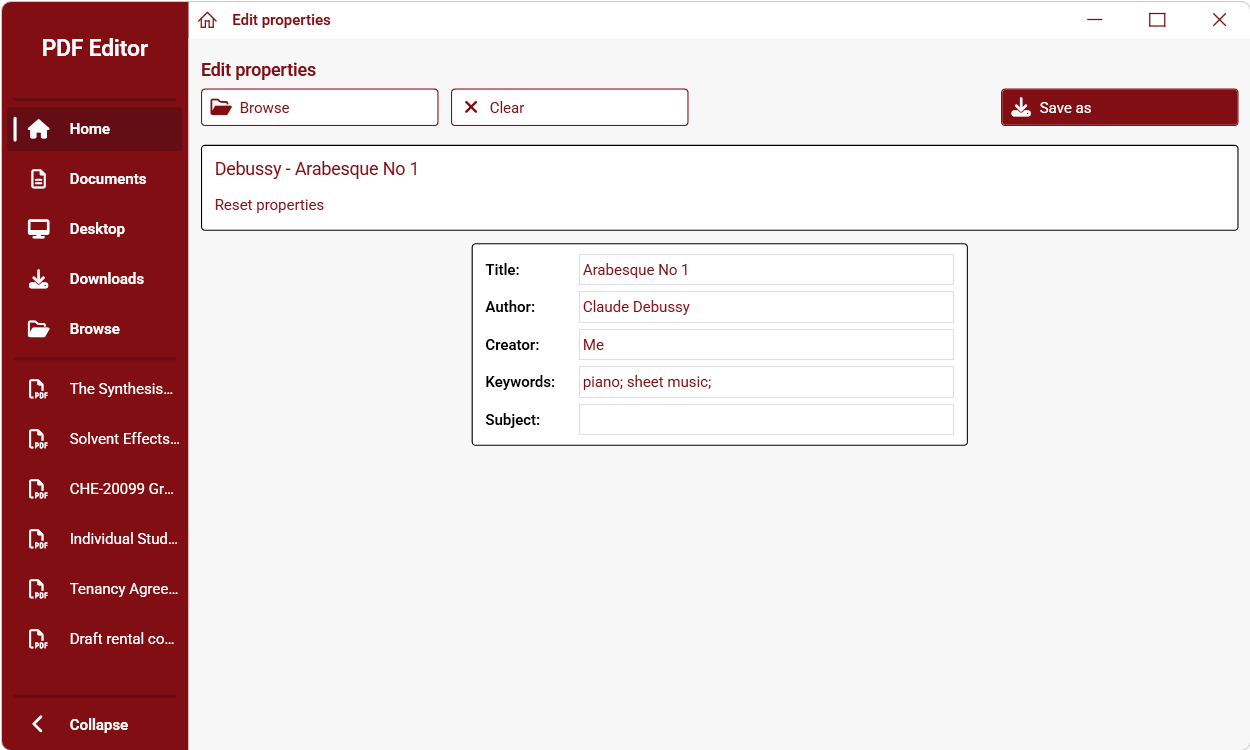
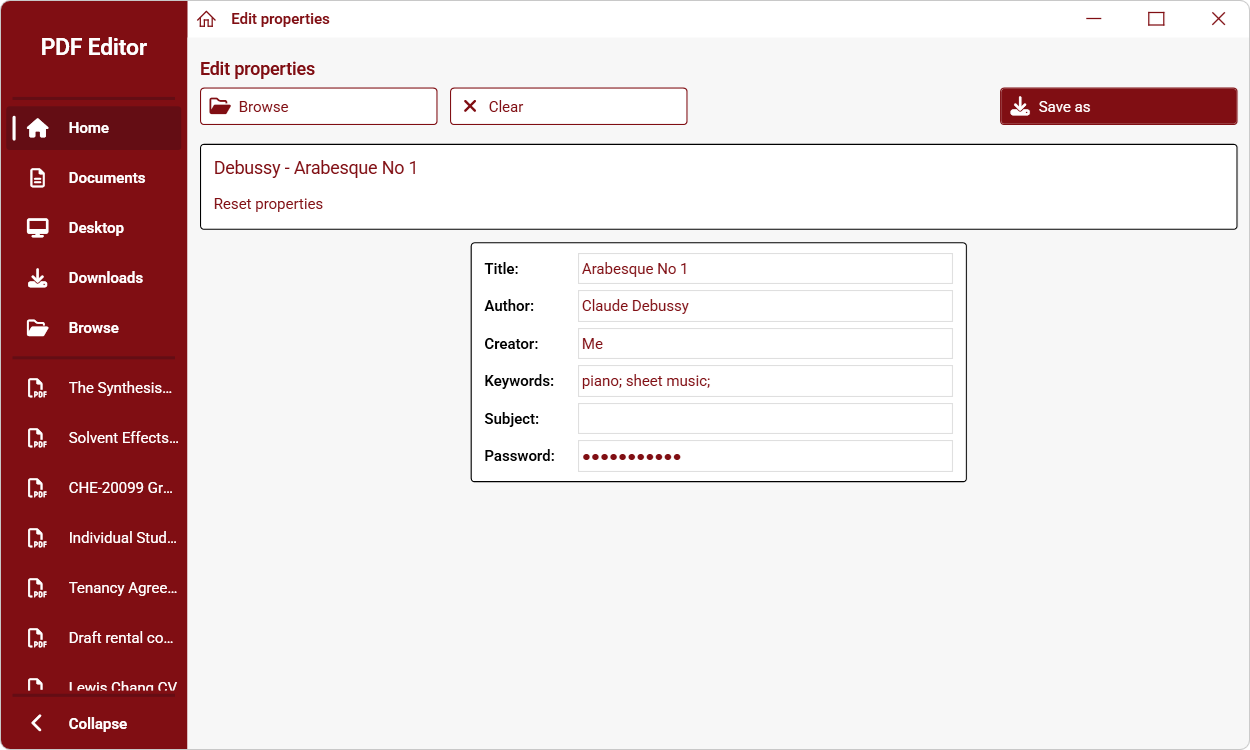
add/remove password in Edit Properties tool

diff --git a/Source/Styles/Fonts.xaml b/Source/Styles/Fonts.xaml
@@ -1,7 +1,6 @@
 <ResourceDictionary xmlns="http://schemas.microsoft.com/winfx/2006/xaml/presentation"
 					xmlns:x="http://schemas.microsoft.com/winfx/2006/xaml">
 	<Style TargetType="PasswordBox">
-		<Setter Property="Background" Value="{StaticResource ResourceKey=White}"/>
 		<Setter Property="BorderBrush" Value="{StaticResource ResourceKey=Primary}"/>
 		<Setter Property="CaretBrush" Value="{StaticResource ResourceKey=Primary}"/>
 		<Setter Property="FontFamily" Value="{StaticResource ResourceKey=DefaultFont}"/>
@@ -9,6 +8,16 @@
 		<Setter Property="Foreground" Value="{StaticResource ResourceKey=Primary}"/>
 		<Setter Property="Margin" Value="0,5,0,5"/>
 		<Setter Property="VerticalContentAlignment" Value="Center"/>
+	</Style>
+	<Style TargetType="PasswordBox" x:Key="EditPropertiesPasswordBox">
+		<Setter Property="BorderBrush" Value="{StaticResource ResourceKey=LightGrey}"/>
+		<Setter Property="CaretBrush" Value="{StaticResource ResourceKey=Primary}"/>
+		<Setter Property="FontFamily" Value="{StaticResource ResourceKey=DefaultFont}"/>
+		<Setter Property="FontSize" Value="{StaticResource ResourceKey=Body}"/>
+		<Setter Property="Foreground" Value="{StaticResource ResourceKey=Primary}"/>
+		<Setter Property="Margin" Value="5,2.5,5,2.5"/>
+		<Setter Property="VerticalContentAlignment" Value="Center"/>
+		<Setter Property="Width" Value="300"/>
 	</Style>
 	<Style TargetType="TextBlock" x:Key="DefaultTextBlock">
 		<Setter Property="FontFamily" Value="{StaticResource ResourceKey=DefaultFont}"/>
@@ -115,7 +124,6 @@
 	<Style TargetType="TextBox" x:Key="DefaultTextBox">
 		<Setter Property="AcceptsReturn" Value="False"/>
 		<Setter Property="AcceptsTab" Value="False"/>
-		<Setter Property="Background" Value="{StaticResource ResourceKey=White}"/>
 		<Setter Property="BorderBrush" Value="{StaticResource ResourceKey=Primary}"/>
 		<Setter Property="CaretBrush" Value="{StaticResource ResourceKey=Primary}"/>
 		<Setter Property="FontFamily" Value="{StaticResource ResourceKey=DefaultFont}"/>
@@ -130,7 +138,6 @@
 	</Style>
 	<Style TargetType="TextBox" x:Key="EditPropertiesTextBox" BasedOn="{StaticResource ResourceKey=DefaultTextBox}">
 		<Setter Property="BorderBrush" Value="{StaticResource ResourceKey=LightGrey}"/>
-		<Setter Property="HorizontalAlignment" Value="Left"/>
 		<Setter Property="Margin" Value="5,2.5,5,2.5"/>
 		<Setter Property="Width" Value="300"/>
 	</Style>

diff --git a/Source/Views/MainWindowView.xaml b/Source/Views/MainWindowView.xaml
@@ -360,6 +360,7 @@
 													<RowDefinition Height="30"/>
 													<RowDefinition Height="30"/>
 													<RowDefinition Height="30"/>
+													<RowDefinition Height="30"/>
 												</Grid.RowDefinitions>
 												<TextBlock Grid.Column="0" Grid.Row="0" Style="{StaticResource ResourceKey=EditPropertiesTextBlock}" Text="Title:"/>
 												<TextBox Grid.Column="1" Grid.Row="0" Style="{StaticResource ResourceKey=EditPropertiesTextBox}" Text="{Binding Path=EditTitleText, UpdateSourceTrigger=PropertyChanged}"/>
@@ -371,6 +372,8 @@
 												<TextBox Grid.Column="1" Grid.Row="3" Style="{StaticResource ResourceKey=EditPropertiesTextBox}" Text="{Binding Path=EditKeywordsText, UpdateSourceTrigger=PropertyChanged}"/>
 												<TextBlock Grid.Column="0" Grid.Row="4" Style="{StaticResource ResourceKey=EditPropertiesTextBlock}" Text="Subject:"/>
 												<TextBox Grid.Column="1" Grid.Row="4" Style="{StaticResource ResourceKey=EditPropertiesTextBox}" Text="{Binding Path=EditSubjectText, UpdateSourceTrigger=PropertyChanged}"/>
+												<TextBlock Grid.Column="0" Grid.Row="5" Style="{StaticResource ResourceKey=EditPropertiesTextBlock}" Text="Password:"/>
+												<ContentPresenter Grid.Column="1" Grid.Row="5" Content="{Binding Path=EditPasswordBox}"/>
 											</Grid>
 										</Border>
 									</Grid>
@@ -798,7 +801,7 @@
 								<TextBlock Grid.Row="0" Style="{StaticResource ResourceKey=PopupTitleTextBlock}" Text="Enter a password"/>
 								<TextBlock Grid.Row="1" Style="{StaticResource ResourceKey=PopupTextBlock}" Text="This file is password-protected. Please enter a password to open the file."/>
 								<TextBlock Grid.Row="2" Style="{StaticResource ResourceKey=NavigationTextBlock}" Text="{Binding Path=PopupPasswordFilePath, StringFormat=({0})}"/>
-								<ContentPresenter Grid.Row="3" Content="{Binding Path=PasswordBox}"/>
+								<ContentPresenter Grid.Row="3" Content="{Binding Path=PopupPasswordBox}"/>
 								<TextBlock Grid.Row="4" Style="{StaticResource ResourceKey=PopupPasswordIncorrectTextBlock}" Visibility="{Binding Path=PopupPasswordIncorrect, Converter={StaticResource ResourceKey=GeneralBoolToVisibility}}" Text="Incorrect password. Please try again."/>
 								<Grid Grid.Row="5">
 									<Grid.ColumnDefinitions>

diff --git a/Source/ViewModels/MainWindowViewModel.cs b/Source/ViewModels/MainWindowViewModel.cs
@@ -49,8 +49,10 @@ internal class MainWindowViewModel : ObservableObject
 	public ObservableCollection<IPDFFindPosition> NavigationCurrentFindResults { get; } = [];
 	public IPDFComponent PDFComponent { get; } = PDFFactory.PDFComponent;
 	public PDFView PageView { get; }
-	public PasswordBox PasswordBox { get; } = new();
+	public PasswordBox PopupPasswordBox { get; } = new();
+	public PasswordBox EditPasswordBox { get; } = new() { Style = (Style)Application.Current.FindResource("EditPropertiesPasswordBox") };
 
+	private PdfDocumentInformation? editCurrentFileProperties = null;
 	private bool editMode = false;
 	private bool popupPasswordCancelled = false;
 
@@ -231,10 +233,10 @@ internal class MainWindowViewModel : ObservableObject
 						RemoveSidepanelFile(PopupPasswordFilePath);
 					}
 				}
-				(PasswordBox.Password, PopupPasswordFilePath, popupPasswordCancelled) = (string.Empty, string.Empty, false);
+				(PopupPasswordBox.Password, PopupPasswordFilePath, popupPasswordCancelled) = (string.Empty, string.Empty, false);
 				if (passwordProtectedFiles.Count > 0)
 				{
-					(PagePasswordPopupOpen, PasswordBox.Password, PopupPasswordFilePath, popupPasswordCancelled, PopupPasswordIncorrect) = (true, string.Empty, passwordProtectedFiles[0], true, PasswordBox.Password != string.Empty);
+					(PagePasswordPopupOpen, PopupPasswordBox.Password, PopupPasswordFilePath, popupPasswordCancelled, PopupPasswordIncorrect) = (true, string.Empty, passwordProtectedFiles[0], true, PopupPasswordBox.Password != string.Empty);
 				}
 			}
 		}
@@ -634,10 +636,7 @@ internal class MainWindowViewModel : ObservableObject
 				break;
 			case 7:
 				{
-					using PdfDocument currentDocument = GetCurrentDocument();
-					PdfDocumentInformation information = currentDocument.Info;
-					(EditTitleText, EditAuthorText, EditCreatorText, EditKeywordsText, EditSubjectText) = (information.Title, information.Author, information.Creator, information.Keywords, information.Subject);
-					currentDocument.Close();
+					(EditTitleText, EditAuthorText, EditCreatorText, EditKeywordsText, EditSubjectText, EditPasswordBox.Password) = (editCurrentFileProperties!.Title, editCurrentFileProperties!.Author, editCurrentFileProperties!.Creator, editCurrentFileProperties!.Keywords, editCurrentFileProperties!.Subject, EditCurrentFile!.Password ?? string.Empty);
 				}
 				break;
 			default:
@@ -945,7 +944,7 @@ internal class MainWindowViewModel : ObservableObject
 					}
 					if (passwordProtectedFiles.Count > 0)
 					{
-						(PagePasswordPopupOpen, PasswordBox.Password, PopupPasswordFilePath, popupPasswordCancelled, PopupPasswordIncorrect) = (true, string.Empty, passwordProtectedFiles[0], true, PasswordBox.Password != string.Empty);
+						(PagePasswordPopupOpen, PopupPasswordBox.Password, PopupPasswordFilePath, popupPasswordCancelled, PopupPasswordIncorrect) = (true, string.Empty, passwordProtectedFiles[0], true, PopupPasswordBox.Password != string.Empty);
 					}
 				}, cancellationToken);
 			}
@@ -1023,7 +1022,14 @@ internal class MainWindowViewModel : ObservableObject
 											EditCurrentFile = new(file);
 											using PdfDocument currentDocument = GetCurrentDocument();
 											PdfDocumentInformation information = currentDocument.Info;
-											(EditTitleText, EditAuthorText, EditCreatorText, EditKeywordsText, EditSubjectText) = (information.Title, information.Author, information.Creator, information.Keywords, information.Subject);
+											await Application.Current.Dispatcher.BeginInvoke(() =>
+											{
+												if (!cancellationToken.IsCancellationRequested)
+												{
+													(EditTitleText, EditAuthorText, EditCreatorText, EditKeywordsText, EditSubjectText, EditPasswordBox.Password, editCurrentFileProperties) = (information.Title, information.Author, information.Creator, information.Keywords, information.Subject, EditCurrentFile.Password ?? string.Empty, (PdfDocumentInformation)information.Clone());
+												}
+											}, DispatcherPriority.Background);
+											cancellationToken.ThrowIfCancellationRequested();
 											currentDocument.Close();
 										}
 										break;
@@ -1050,7 +1056,7 @@ internal class MainWindowViewModel : ObservableObject
 							{
 								if (!cancellationToken.IsCancellationRequested)
 								{
-									(PagePasswordPopupOpen, PasswordBox.Password, PopupPasswordFilePath, popupPasswordCancelled, PopupPasswordIncorrect) = (true, string.Empty, passwordProtectedFiles[0], true, PasswordBox.Password != string.Empty);
+									(PagePasswordPopupOpen, PopupPasswordBox.Password, PopupPasswordFilePath, popupPasswordCancelled, PopupPasswordIncorrect) = (true, string.Empty, passwordProtectedFiles[0], true, PopupPasswordBox.Password != string.Empty);
 								}
 							}, DispatcherPriority.Background);
 						}
@@ -1273,7 +1279,7 @@ internal class MainWindowViewModel : ObservableObject
 								}
 								cancellationToken.ThrowIfCancellationRequested();
 								currentDocument.Close();
-								outputDocument.Info.SetProperties(EditTitleText, EditAuthorText, EditCreatorText, EditKeywordsText, EditSubjectText);
+								outputDocument.SetProperties(EditTitleText, EditAuthorText, EditCreatorText, EditKeywordsText, EditSubjectText, EditPasswordBox.Password);
 								outputDocument.Save(saveFilePath);
 								outputDocument.Close();
 								await Application.Current.Dispatcher.BeginInvoke(async () =>
@@ -1306,7 +1312,7 @@ internal class MainWindowViewModel : ObservableObject
 				await Task.Run(async () =>
 				{
 					cancellationToken.ThrowIfCancellationRequested();
-					FileError? fileError = pdfOpenComponent.FileError(PopupPasswordFilePath, PasswordBox.Password);
+					FileError? fileError = pdfOpenComponent.FileError(PopupPasswordFilePath, PopupPasswordBox.Password.TextToNullableString());
 					if (fileError == null)
 					{
 						PagePasswordPopupOpen = false;
@@ -1320,14 +1326,14 @@ internal class MainWindowViewModel : ObservableObject
 									{
 										if (!cancellationToken.IsCancellationRequested)
 										{
-											EditCurrentFiles.Add(new(PopupPasswordFilePath, EditCurrentFiles.Count + 1, PopupPasswordFilePath.FilePageCount(PasswordBox.Password), PasswordBox.Password));
+											EditCurrentFiles.Add(new(PopupPasswordFilePath, EditCurrentFiles.Count + 1, PopupPasswordFilePath.FilePageCount(PopupPasswordBox.Password.TextToNullableString()), PopupPasswordBox.Password.TextToNullableString()));
 											CommandManager.InvalidateRequerySuggested();
 										}
 									}, DispatcherPriority.Background);
 								}
 								break;
 							case >= 2 and <= 6:
-								EditCurrentFile = new(PopupPasswordFilePath, PasswordBox.Password);
+								EditCurrentFile = new(PopupPasswordFilePath, PopupPasswordBox.Password.TextToNullableString());
 								await Application.Current.Dispatcher.BeginInvoke(() =>
 								{
 									if (!cancellationToken.IsCancellationRequested)
@@ -1338,7 +1344,7 @@ internal class MainWindowViewModel : ObservableObject
 								byte[] bytes = await File.ReadAllBytesAsync(EditCurrentFile.FilePath);
 								cancellationToken.ThrowIfCancellationRequested();
 								int displayIndex = 1;
-								await foreach (SKBitmap page in Conversion.ToImagesAsync(bytes, PasswordBox.Password)) using (page)
+								await foreach (SKBitmap page in Conversion.ToImagesAsync(bytes, PopupPasswordBox.Password.TextToNullableString())) using (page)
 								{
 									cancellationToken.ThrowIfCancellationRequested();
 									BitmapSource thumbnail = BitmapSource.Create(page.Width, page.Height, 96, 96, PixelFormats.Bgra32, null, page.GetPixels(), page.RowBytes * page.Height, page.RowBytes);
@@ -1355,10 +1361,17 @@ internal class MainWindowViewModel : ObservableObject
 								break;
 							case 7:
 								{
-									EditCurrentFile = new(PopupPasswordFilePath, PasswordBox.Password);
+									EditCurrentFile = new(PopupPasswordFilePath, PopupPasswordBox.Password.TextToNullableString());
 									using PdfDocument currentDocument = GetCurrentDocument();
 									PdfDocumentInformation information = currentDocument.Info;
-									(EditTitleText, EditAuthorText, EditCreatorText, EditKeywordsText, EditSubjectText) = (information.Title, information.Author, information.Creator, information.Keywords, information.Subject);
+									await Application.Current.Dispatcher.BeginInvoke(() =>
+									{
+										if (!cancellationToken.IsCancellationRequested)
+										{
+											(EditTitleText, EditAuthorText, EditCreatorText, EditKeywordsText, EditSubjectText, EditPasswordBox.Password, editCurrentFileProperties) = (information.Title, information.Author, information.Creator, information.Keywords, information.Subject, EditCurrentFile.Password ?? string.Empty, (PdfDocumentInformation)information.Clone());
+										}
+									}, DispatcherPriority.Background);
+									cancellationToken.ThrowIfCancellationRequested();
 									currentDocument.Close();
 								}
 								break;
@@ -1371,13 +1384,13 @@ internal class MainWindowViewModel : ObservableObject
 						{
 							if (!cancellationToken.IsCancellationRequested)
 							{
-								(PasswordBox.Password, PopupPasswordFilePath, PopupPasswordIncorrect) = (string.Empty, string.Empty, false);
+								(PopupPasswordBox.Password, PopupPasswordFilePath, PopupPasswordIncorrect) = (string.Empty, string.Empty, false);
 							}
 						}, DispatcherPriority.Background);
 						cancellationToken.ThrowIfCancellationRequested();
 						if (passwordProtectedFiles.Count > 0)
 						{
-							(PagePasswordPopupOpen, PasswordBox.Password, PopupPasswordFilePath, popupPasswordCancelled, PopupPasswordIncorrect) = (true, string.Empty, passwordProtectedFiles[0], true, PasswordBox.Password != string.Empty);
+							(PagePasswordPopupOpen, PopupPasswordBox.Password, PopupPasswordFilePath, popupPasswordCancelled, PopupPasswordIncorrect) = (true, string.Empty, passwordProtectedFiles[0], true, PopupPasswordBox.Password != string.Empty);
 						}
 					}
 					else if (fileError.IsPasswordError)
@@ -1386,7 +1399,7 @@ internal class MainWindowViewModel : ObservableObject
 						{
 							if (!cancellationToken.IsCancellationRequested)
 							{
-								(PagePasswordPopupOpen, PasswordBox.Password, PopupPasswordFilePath, popupPasswordCancelled, PopupPasswordIncorrect) = (true, string.Empty, passwordProtectedFiles[0], true, PasswordBox.Password != string.Empty);
+								(PagePasswordPopupOpen, PopupPasswordBox.Password, PopupPasswordFilePath, popupPasswordCancelled, PopupPasswordIncorrect) = (true, string.Empty, passwordProtectedFiles[0], true, PopupPasswordBox.Password != string.Empty);
 							}
 						}, DispatcherPriority.Background);
 					}
@@ -1419,7 +1432,7 @@ internal class MainWindowViewModel : ObservableObject
 			EditCurrentPages.Clear();
 			PDFComponent.CloseDocument();
 			PageCurrentPDF = null;
-			FileError? fileError = PDFComponent.FileError(parameter, PasswordBox.Password.TextToNullableString(), false);
+			FileError? fileError = PDFComponent.FileError(parameter, PopupPasswordBox.Password.TextToNullableString(), false);
 			if (fileError == null)
 			{
 				(PageCurrentPage, PageCurrentPDF, PagePasswordPopupOpen, ToolbarFitToHeightButtonVisible, ToolbarFindOpen, ToolbarContentsOpen, ToolbarThumbnailsOpen, PopupPageViewTwoPages, PopupPageViewSeparateCoverPage, NavigationFindMatchCase, NavigationFindMatchWholeWord) = (0, new(PDFComponent.DocumentInformation, pageComponent, new(parameter)), false, false, false, false, false, false, false, false, false);
@@ -1434,7 +1447,7 @@ internal class MainWindowViewModel : ObservableObject
 					byte[] file = await File.ReadAllBytesAsync(parameter);
 					cancellationToken.ThrowIfCancellationRequested();
 					int displayIndex = 1;
-					await foreach (SKBitmap page in Conversion.ToImagesAsync(file, PasswordBox.Password.TextToNullableString())) using (page)
+					await foreach (SKBitmap page in Conversion.ToImagesAsync(file, PopupPasswordBox.Password.TextToNullableString())) using (page)
 					{
 						cancellationToken.ThrowIfCancellationRequested();
 						BitmapSource thumbnail = BitmapSource.Create(page.Width, page.Height, 96, 96, PixelFormats.Bgra32, null, page.GetPixels(), page.RowBytes * page.Height, page.RowBytes);
@@ -1451,15 +1464,15 @@ internal class MainWindowViewModel : ObservableObject
 				}, cancellationToken);
 				cancellationToken.ThrowIfCancellationRequested();
 				passwordProtectedFiles.Remove(PopupPasswordFilePath);
-				(PasswordBox.Password, PopupPasswordFilePath, PopupPasswordIncorrect) = (string.Empty, string.Empty, false);
+				(PopupPasswordBox.Password, PopupPasswordFilePath, PopupPasswordIncorrect) = (string.Empty, string.Empty, false);
 				if (passwordProtectedFiles.Count > 0)
 				{
-					(PagePasswordPopupOpen, PasswordBox.Password, PopupPasswordFilePath, popupPasswordCancelled, PopupPasswordIncorrect) = (true, string.Empty, passwordProtectedFiles[0], true, PasswordBox.Password != string.Empty);
+					(PagePasswordPopupOpen, PopupPasswordBox.Password, PopupPasswordFilePath, popupPasswordCancelled, PopupPasswordIncorrect) = (true, string.Empty, passwordProtectedFiles[0], true, PopupPasswordBox.Password != string.Empty);
 				}
 			}
 			else if (fileError.IsPasswordError)
 			{
-				(PagePasswordPopupOpen, PasswordBox.Password, PopupPasswordFilePath, popupPasswordCancelled, PopupPasswordIncorrect) = (true, string.Empty, parameter, true, PasswordBox.Password != string.Empty);
+				(PagePasswordPopupOpen, PopupPasswordBox.Password, PopupPasswordFilePath, popupPasswordCancelled, PopupPasswordIncorrect) = (true, string.Empty, parameter, true, PopupPasswordBox.Password != string.Empty);
 			}
 			else
 			{
@@ -1585,7 +1598,7 @@ internal class MainWindowViewModel : ObservableObject
 			3 or 4 => EditCurrentPages.Any(x => x.IsSelected),
 			5 => !EditCurrentPages.SequenceEqual(EditCurrentPages.OrderBy(x => x.DisplayIndex)),
 			6 => EditCurrentPages.Any(x => x.Rotate != 0),
-			7 => EditCurrentFile != null && EditCurrentFile.FilePath.PropertiesChanged(EditTitleText, EditAuthorText, EditCreatorText, EditKeywordsText, EditSubjectText, EditCurrentFile.Password),
+			7 => EditCurrentFile != null && editCurrentFileProperties.PropertiesChanged(EditTitleText, EditAuthorText, EditCreatorText, EditKeywordsText, EditSubjectText, EditPasswordBox.Password, EditCurrentFile.Password),
 			_ => false
 		};
 	}
@@ -1626,11 +1639,11 @@ internal class MainWindowViewModel : ObservableObject
 			4 => EditCurrentFile != null && EditCurrentPages.Any(x => x.IsSelected) && EditCurrentPages.Any(x => !x.IsSelected) && EditSelectedPagesText.TextToIntListOrderValid(),
 			5 => EditCurrentFile != null && !EditCurrentPages.SequenceEqual(EditCurrentPages.OrderBy(x => x.DisplayIndex)),
 			6 => EditCurrentFile != null && EditCurrentPages.Any(x => x.Rotate != 0),
-			7 => EditCurrentFile != null && EditCurrentFile.FilePath.PropertiesChanged(EditTitleText, EditAuthorText, EditCreatorText, EditKeywordsText, EditSubjectText, EditCurrentFile.Password),
+			7 => EditCurrentFile != null && editCurrentFileProperties.PropertiesChanged(EditTitleText, EditAuthorText, EditCreatorText, EditKeywordsText, EditSubjectText, EditPasswordBox.Password, EditCurrentFile.Password),
 			_ => false
 		};
 	}
-	private bool CanPopupPasswordOpenAsync() => PasswordBox.Password != string.Empty;
+	private bool CanPopupPasswordOpenAsync() => PopupPasswordBox.Password != string.Empty;
 
 	private void InitialiseOpenFileDialog(bool multiselect)
 	{
@@ -1697,7 +1710,7 @@ internal class MainWindowViewModel : ObservableObject
 			EditCurrentFiles.Clear();
 		}
 		EditCurrentPages.Clear();
-		EditCurrentFile = null;
+		(EditCurrentFile, editCurrentFileProperties) = (null, null);
 		switch (HomeCurrentPage)
 		{
 			case 1 or 5:
@@ -1712,7 +1725,7 @@ internal class MainWindowViewModel : ObservableObject
 				EditSelectedPagesText = string.Empty;
 				break;
 			case 7:
-				(EditTitleText, EditAuthorText, EditCreatorText, EditKeywordsText, EditSubjectText) = (string.Empty, string.Empty, string.Empty, string.Empty, string.Empty);
+				(EditTitleText, EditAuthorText, EditCreatorText, EditKeywordsText, EditSubjectText, EditPasswordBox.Password) = (string.Empty, string.Empty, string.Empty, string.Empty, string.Empty, string.Empty);
 				break;
 			default:
 				return;

diff --git a/Source/Data/StaticMethods.cs b/Source/Data/StaticMethods.cs
@@ -64,35 +64,32 @@ internal static class StaticMethods
 	}
 	public static List<int> TextToIntList(this string parameter) => parameter != string.Empty ? [.. parameter.Split(',').Select(int.Parse)] : [];
 	public static List<Size> GetPageSizes(this ObservableCollection<IPDFPage> parameter) => [.. parameter.Select(x => new Size((int)(x.Width / 72 * 25.4), (int)(x.Height / 72 * 25.4))).Distinct()];
-	public static bool PropertiesChanged(this string parameter, string title, string author, string creator, string keywords, string subject, string? password = null)
-	{
-		using PdfDocument currentDocument = PdfReader.Open(parameter, password!, PdfDocumentOpenMode.Import);
-		PdfDocumentInformation information = currentDocument.Info;
-		bool canReset = (title, author, creator, keywords, subject) != (information.Title, information.Author, information.Creator, information.Keywords, information.Subject);
-		currentDocument.Close();
-		return canReset;
-	}
-	public static void SetProperties(this PdfDocumentInformation documentInformation, string title, string author, string creator, string keywords, string subject)
+	public static bool PropertiesChanged(this PdfDocumentInformation? parameter, string title, string author, string creator, string keywords, string subject, string password, string? filePassword) => parameter != null && (title, author, creator, keywords, subject, password) != (parameter.Title, parameter.Author, parameter.Creator, parameter.Keywords, parameter.Subject, filePassword ?? string.Empty);
+	public static void SetProperties(this PdfDocument document, string title, string author, string creator, string keywords, string subject, string password)
 	{
 		if (!string.IsNullOrWhiteSpace(title))
 		{
-			documentInformation.Title = title;
+			document.Info.Title = title;
 		}
 		if (!string.IsNullOrWhiteSpace(author))
 		{
-			documentInformation.Author = author;
+			document.Info.Author = author;
 		}
 		if (!string.IsNullOrWhiteSpace(creator))
 		{
-			documentInformation.Creator = creator;
+			document.Info.Creator = creator;
 		}
 		if (!string.IsNullOrWhiteSpace(keywords))
 		{
-			documentInformation.Keywords = keywords;
+			document.Info.Keywords = keywords;
 		}
 		if (!string.IsNullOrWhiteSpace(subject))
 		{
-			documentInformation.Subject = subject;
+			document.Info.Subject = subject;
+		}
+		if (!string.IsNullOrWhiteSpace(password))
+		{
+			document.SecuritySettings.UserPassword = password;
 		}
 	}
 }

diff --git a/Source/Converters/ToolbarConverters.cs b/Source/Converters/ToolbarConverters.cs
@@ -1,6 +1,7 @@
 using System.Globalization;
 using System.Windows;
 using System.Windows.Data;
+using System.Windows.Media;
 
 namespace PDF_Editor.Source.Converters;
 
@@ -42,7 +43,7 @@ internal class ToolbarDocumentInformationTextForegroundConverter : IValueConvert
 	{
 		if (Application.Current is Application application && value is string or null)
 		{
-			return application.FindResource(value is string ? "Black" : "DarkGrey");
+			return (Brush)application.FindResource(value is string ? "Black" : "DarkGrey");
 		}
 		else
 		{

diff --git a/Source/Converters/EditConverters.cs b/Source/Converters/EditConverters.cs
@@ -1,6 +1,7 @@
 using System.Globalization;
 using System.Windows;
 using System.Windows.Data;
+using System.Windows.Media;
 
 namespace PDF_Editor.Source.Converters;
 
@@ -36,7 +37,7 @@ internal class EditThumbnailBorderBrushConverter : IValueConverter
 	{
 		if (Application.Current is Application application && value is bool isSelected)
 		{
-			return application.FindResource(isSelected ? "Primary" : "Black");
+			return (Brush)application.FindResource(isSelected ? "Primary" : "Black");
 		}
 		else
 		{

diff --git a/README.md b/README.md
@@ -33,7 +33,7 @@ PDF Editor - view and edit PDF documents
 * Remove pages - remove selected pages from a PDF document
 * Reorder pages - reorder pages in a PDF document
 * Rotate pages - rotate all, selected, or single pages in a PDF document
-* Edit properties - edit Title, Author, Creator, Keywords, and Subject on a PDF document
+* Edit properties - edit Title, Author, Creator, Keywords, Subject, and Password on a PDF document
 
 ## Browse
 
